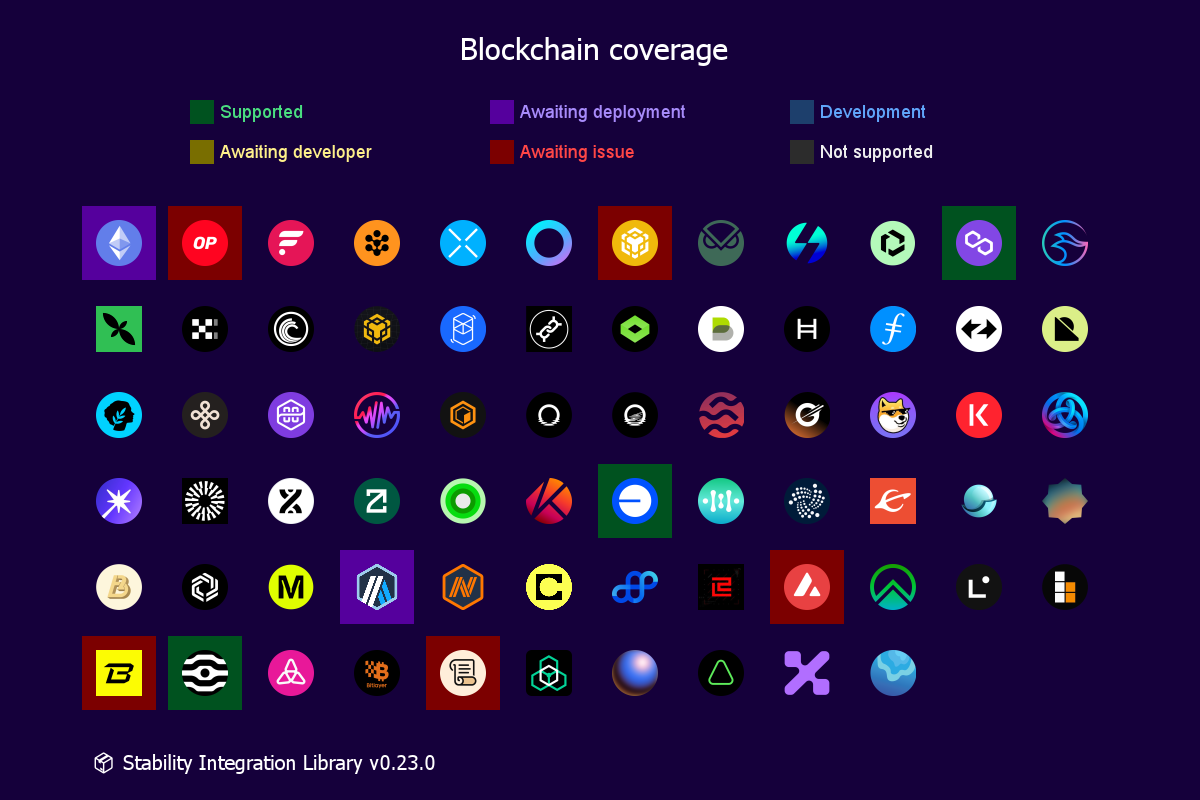
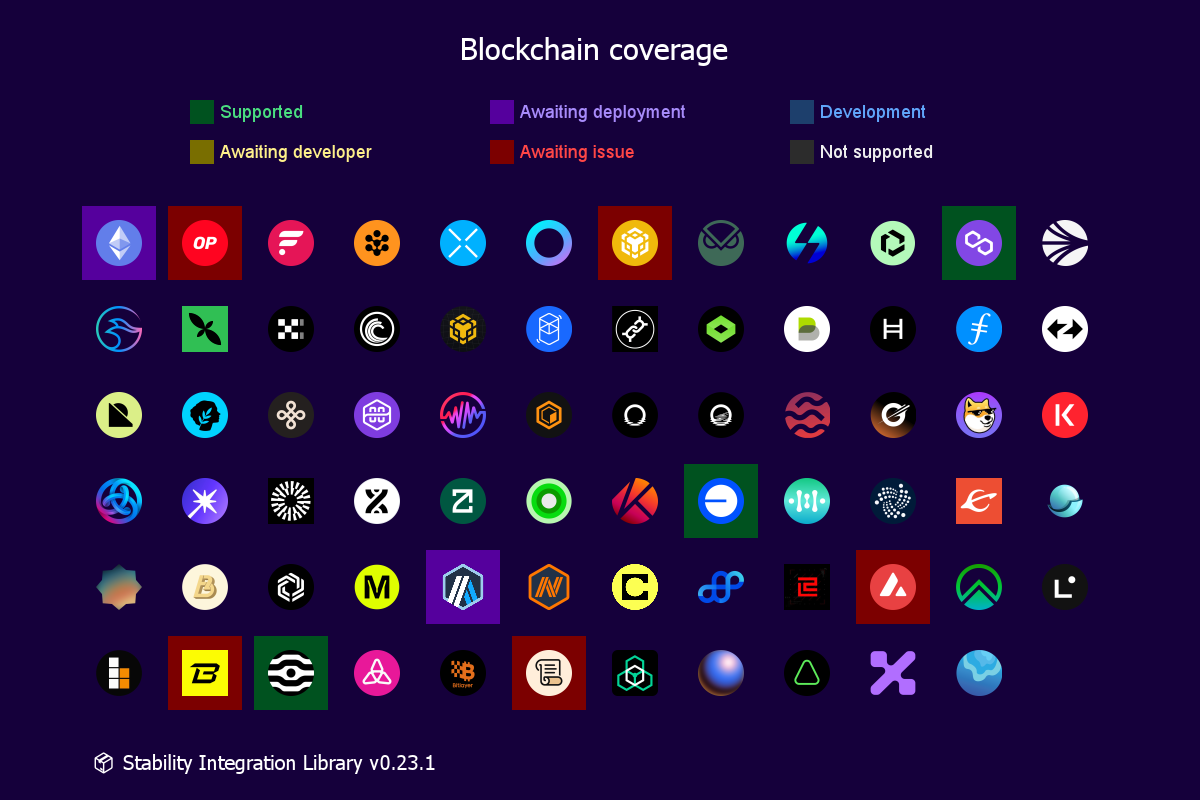
⛓ add sonic

diff --git a/src/integrations.ts b/src/integrations.ts
@@ -129,6 +129,7 @@ export const integrations: { [org: string]: DeFiOrganization } = {
           ChainName.ZKSYNC,
           ChainName.METIS,
           ChainName.SCROLL,
+          ChainName.SONIC,
         ],
         adapters: ["ChainLinkAdapter"],
         coreContracts: ["PriceReader"],
@@ -406,6 +407,7 @@ export const integrations: { [org: string]: DeFiOrganization } = {
           ChainName.OPTIMISM,
           ChainName.X_LAYER,
           ChainName.FRAXTAL,
+          ChainName.SONIC,
         ],
         strategies: [StrategyShortId.CCF],
         adapters: ["CurveAdapter"],
@@ -724,7 +726,7 @@ export const integrations: { [org: string]: DeFiOrganization } = {
         chains: [
           ChainName.FANTOM,
           ChainName.OPTIMISM,
-          // SONIC
+          ChainName.SONIC,
         ],
         adapters: [
           // stable pools
@@ -745,7 +747,7 @@ export const integrations: { [org: string]: DeFiOrganization } = {
         category: DefiCategory.AMM,
         chains: [
           ChainName.FANTOM,
-          // SONIC
+          ChainName.SONIC,
         ],
         adapters: ["UniswapV3Adapter"],
       },
@@ -764,7 +766,7 @@ export const integrations: { [org: string]: DeFiOrganization } = {
         chains: [
           ChainName.POLYGON,
           ChainName.POLYGON_ZKEVM,
-          // sonic
+          ChainName.SONIC,
         ],
       },
     },
@@ -780,7 +782,7 @@ export const integrations: { [org: string]: DeFiOrganization } = {
         name: "Shadow Exchange",
         category: DefiCategory.AMM,
         chains: [
-          // sonic
+          ChainName.SONIC,
         ],
         adapters: ["UniswapV3Adapter"],
       },
@@ -795,7 +797,7 @@ export const integrations: { [org: string]: DeFiOrganization } = {
         name: "SwapX",
         category: DefiCategory.AMM,
         chains: [
-          // sonic
+          ChainName.SONIC,
         ],
         adapters: [
           // "AlgebraAdapter", ?
@@ -812,7 +814,7 @@ export const integrations: { [org: string]: DeFiOrganization } = {
         name: "SuperSonic",
         category: DefiCategory.AMM,
         chains: [
-          // sonic
+          ChainName.SONIC,
         ],
       },
     },
@@ -828,7 +830,7 @@ export const integrations: { [org: string]: DeFiOrganization } = {
         chains: [
           ChainName.FANTOM,
           ChainName.BASE,
-          // sonic
+          ChainName.SONIC,
         ],
         adapters: ["UniswapV3Adapter"],
       },
@@ -844,7 +846,7 @@ export const integrations: { [org: string]: DeFiOrganization } = {
         name: "Metropolis",
         category: DefiCategory.AMM,
         chains: [
-          // sonic
+          ChainName.SONIC,
         ],
       },
     },
@@ -876,7 +878,7 @@ export const integrations: { [org: string]: DeFiOrganization } = {
           ChainName.GNOSIS,
           ChainName.METIS,
           ChainName.BLAST,
-          // sonic
+          ChainName.SONIC,
         ],
         strategies: [StrategyShortId.GQMF, StrategyShortId.GRMF],
       },
@@ -927,6 +929,7 @@ export const integrations: { [org: string]: DeFiOrganization } = {
           ChainName.CELO,
           ChainName.SKALE_EUROPA,
           ChainName.REAL,
+          ChainName.SONIC,
         ],
         strategies: [
           StrategyShortId.IQMF,
@@ -968,6 +971,7 @@ export const integrations: { [org: string]: DeFiOrganization } = {
           ChainName.EVMOS,
           ChainName.MODE,
           ChainName.TELOS,
+          ChainName.SONIC,
         ],
         strategies: [StrategyShortId.SQMF],
       },
@@ -1188,7 +1192,7 @@ export const integrations: { [org: string]: DeFiOrganization } = {
           ChainName.MODE,
           ChainName.TAIKO,
           ChainName.ZETA,
-          // sonic
+          ChainName.SONIC,
           // b^2
           // iotex
           // kaia
@@ -1209,7 +1213,7 @@ export const integrations: { [org: string]: DeFiOrganization } = {
           ChainName.ARBITRUM,
           ChainName.OPTIMISM,
           ChainName.ETHEREUM,
-          // sonic?
+          ChainName.SONIC,
         ],
       },
       siloV2: {
@@ -1233,7 +1237,7 @@ export const integrations: { [org: string]: DeFiOrganization } = {
         name: "Vicuna",
         category: DefiCategory.LENDING,
         chains: [
-          // sonic
+          ChainName.SONIC,
         ],
       },
     },
@@ -1262,7 +1266,7 @@ export const integrations: { [org: string]: DeFiOrganization } = {
         name: "Lever",
         category: DefiCategory.LENDING,
         chains: [
-          // sonic
+          ChainName.SONIC,
         ],
       },
     },
@@ -1307,7 +1311,7 @@ export const integrations: { [org: string]: DeFiOrganization } = {
         name: "Mach Finance",
         category: DefiCategory.LENDING,
         chains: [
-          // sonic
+          ChainName.SONIC,
         ],
       },
     },
@@ -1357,7 +1361,7 @@ export const integrations: { [org: string]: DeFiOrganization } = {
           ChainName.ETHEREUM,
           ChainName.ARBITRUM,
           ChainName.POLYGON,
-          // sonic
+          ChainName.SONIC,
         ],
         strategies: [StrategyShortId.Y],
       },

diff --git a/src/chains.ts b/src/chains.ts
@@ -96,6 +96,7 @@ export const enum ChainName {
   DYMENSION = "Dymension",
   HELA = "Hela",
   ASSET_CHAIN = "Asset Chain",
+  SONIC = "Sonic",
 }
 
 export const chains: { [chainId: string]: Chain } = {
@@ -169,6 +170,12 @@ export const chains: { [chainId: string]: Chain } = {
     status: ChainStatus.SUPPORTED,
     img: "polygon.svg",
     multisig: "0x36780E69D38c8b175761c6C5F8eD42E61ee490E9",
+  },
+  "146": {
+    name: ChainName.SONIC,
+    chainId: 146,
+    status: ChainStatus.NOT_SUPPORTED,
+    img: "sonic.png",
   },
   "169": {
     name: ChainName.MANTA,
